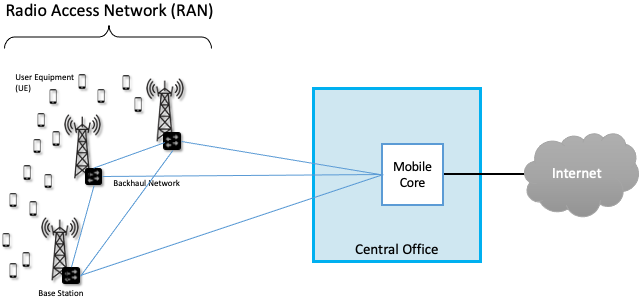
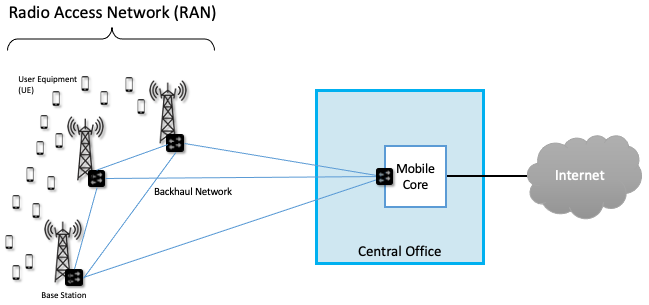
expanded RAN background

diff --git a/access.rst b/access.rst
@@ -19,10 +19,11 @@ The technologies used to implement the *last mile* networks connecting
 homes, businesses, and mobile devices to the Internet have evolved
 independently from the rest of the Internet. This evolution, which has
 spanned decades, started with support for circuit-based voice
-communication and then incrementally added support for IP-based data.
-The end result is a baroque collection of purpose-built devices that
-look quite unfamiliar to anyone that understands how to build a
-network out of a collection of L2/L3 ethernet switches.
+communication and then incrementally added support for IP-based data
+communication.  The end result is a baroque collection of
+purpose-built devices that look quite unfamiliar to anyone that
+understands how to build a network out of a collection of L2/L3
+ethernet switches.
 
 But this makes the access network fertile ground for SDN, and the
 introduction of disaggregation, commodity hardware, and cloud-based
@@ -109,14 +110,14 @@ that is of interest here.  As shown in :numref:`Figure %s <fig-ran>`,
 this includes the set of base stations connected to each other (and
 back to the Central Office), and the Mobile Core that connects the RAN
 to the rest of the Internet. The Mobile Core is like the BNG in that
-it is an IP gateway and is responsible for authentication, QoS, and
-billing, but it also has the added responsibility of tracking mobility
-(i.e., recording which base station is currently serving each active
-device, or so-called UE).
+it is an IP gateway that is also responsible for authentication, QoS,
+and billing. Plus the Mobile Core has added responsibility of tracking
+mobility (i.e., recording which base station is currently serving each
+active device, or so-called UE).
 
 .. _fig-ran:
 .. figure:: access/Slide2.png
-   :width: 600px
+   :width: 700px
    :align: center
 
    A Radio Access Network (RAN) connecting a set of cellular devices 
@@ -124,14 +125,25 @@ device, or so-called UE).
 
 The figure also shows the Mobile Core and set of base stations
 interconnected by a backhaul network. The technology used to implement
-this backhaul is an implementation choice—e.g., it could be an
-packet-switched ethernet, a metro ring, or even PON-based—but for our
-purposes, the important point is that the RAN is effectively a
-regional (e.g., metro-area) packet-switched network, where the base
-stations are the "nodes" of that network (nodes that just happen to
-have one or more radio antennas connected to it). Packets are "routed"
-through this network to reach the best base station(s), at any given
-point in time, to serve each UE.
+this backhaul is an implementation choice—e.g., it could be
+ethernet-based or PON-based—but for our purposes, the important point
+is that the RAN is effectively a regional (e.g., metro-area)
+packet-switched network, overlaid on the backhaul, where the base
+stations are the "nodes" of that overlay network. Packets are "routed"
+through this network to reach the best base station(s) to serve each
+UE at a given moment in time.\ [#]_ These forwarding decisions are
+implemented by the base stations, which make decisions about
+*handovers* (one base station handing a given UE's traffic off to
+another) and *link aggregation* (multiple base stations deciding to
+jointly transmit to a given UE).
+
+.. [#] We say "routed" because the decision is based on a combination
+       of mobility tracking and monitoring how to most efficiently use
+       the radio spectrum, as opposed to the shortest-path criteria
+       typically used in wired networks. What's important, however, is
+       that the base stations cooperatively implement a distributed
+       decision-making algorithm, and then forward packets to each
+       other based on those decisions.
 
 Key Takeaways
 ~~~~~~~~~~~~~~~~
@@ -139,15 +151,15 @@ Key Takeaways
 There are three observations to make about these two network
 technologies before we get to the question of how to apply SDN
 principles. The first is the distinction between the "access network"
-and the "IP gateway".  Broadly defined, Fiber-to-the-Home corresponds
-to both the PON and the BNG, and similarly, the 5G Cellular Mobile
+and the "IP gateway".  For example, Fiber-to-the-Home corresponds to
+both the PON and the BNG, and similarly, the 5G Cellular Mobile
 Network is implemented by a combination of the RAN and the Mobile
 Core. This chapter focuses on how to apply SDN to the PON and RAN, but
-we have already seen (albeit briefly in Section 7.4) how SDN can be
-applied to the BNG and Mobile Core: Both are just enhanced IP routers
-that can be implemented as extensions to the P4 program running in the
-switching fabric. We return to this topic in the last section, where
-we describe these extensions in more detail.
+as we have already seen (briefly) in Section 7.4, SDN can also be
+applied to the BNG and Mobile Core. Both are just enhanced IP routers,
+with the new features implemented as extensions to the P4 program
+running in the switching fabric. We return to this topic in the last
+section, where we describe these extensions in more detail.
 
 Second, because the PON is passive, there is no opportunity for
 software control *inside* the network. Applying SDN to PON involves
@@ -158,13 +170,13 @@ directives from the OLT, all of which points to disaggregating the OLT
 as the key.
 
 Third, because the RAN is a packet-switch network that interconnects a
-set of base stations, there is an opportunity for software control of
-the base stations. This requires disaggregating the base stations,
-which as as we will see later in this chapter, have historically run a
-multi-layer protocol stack. Once disaggregated, the pieces are then
-distribued throughout the network, with some elements co-located with
-the radio antenna, and some elements co-located with the Mobile Core
-in the Central Office. In other words, the plan is to both "split" and
+set of base stations, there is an opportunity for software
+control. This requires disaggregating the base stations, which as as
+we will see later in this chapter, have historically run a multi-layer
+protocol stack. Once disaggregated, the pieces are then distributed
+throughout the network, with some elements co-located with the radio
+antenna, and some elements co-located with the Mobile Core in the
+Central Office. In other words, the plan is to both "split" and
 "distribute" the RAN.
 
 .. todo::
